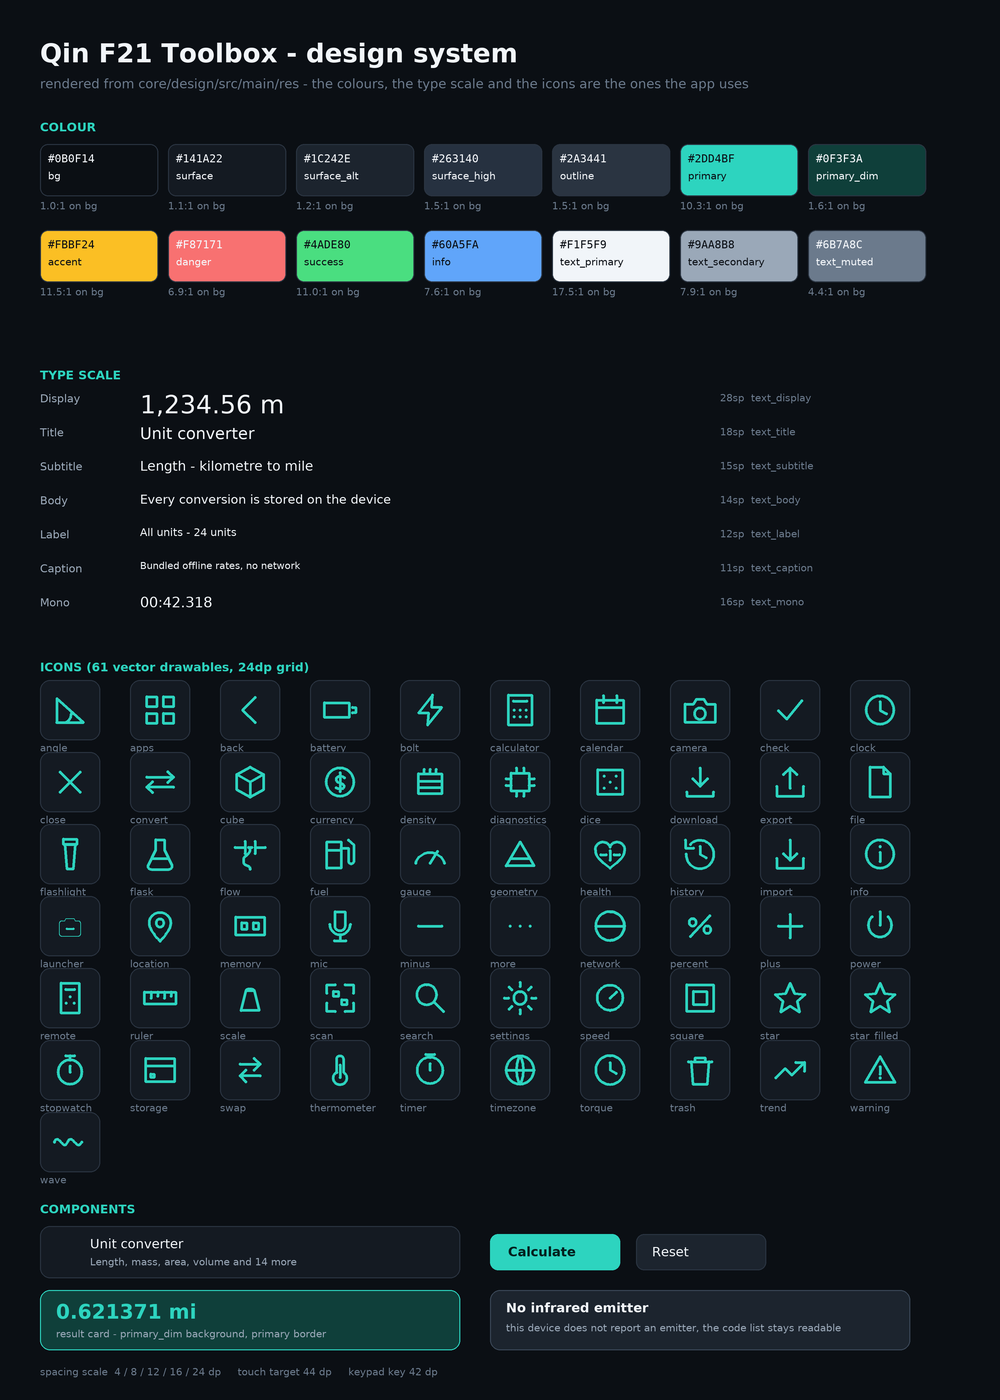
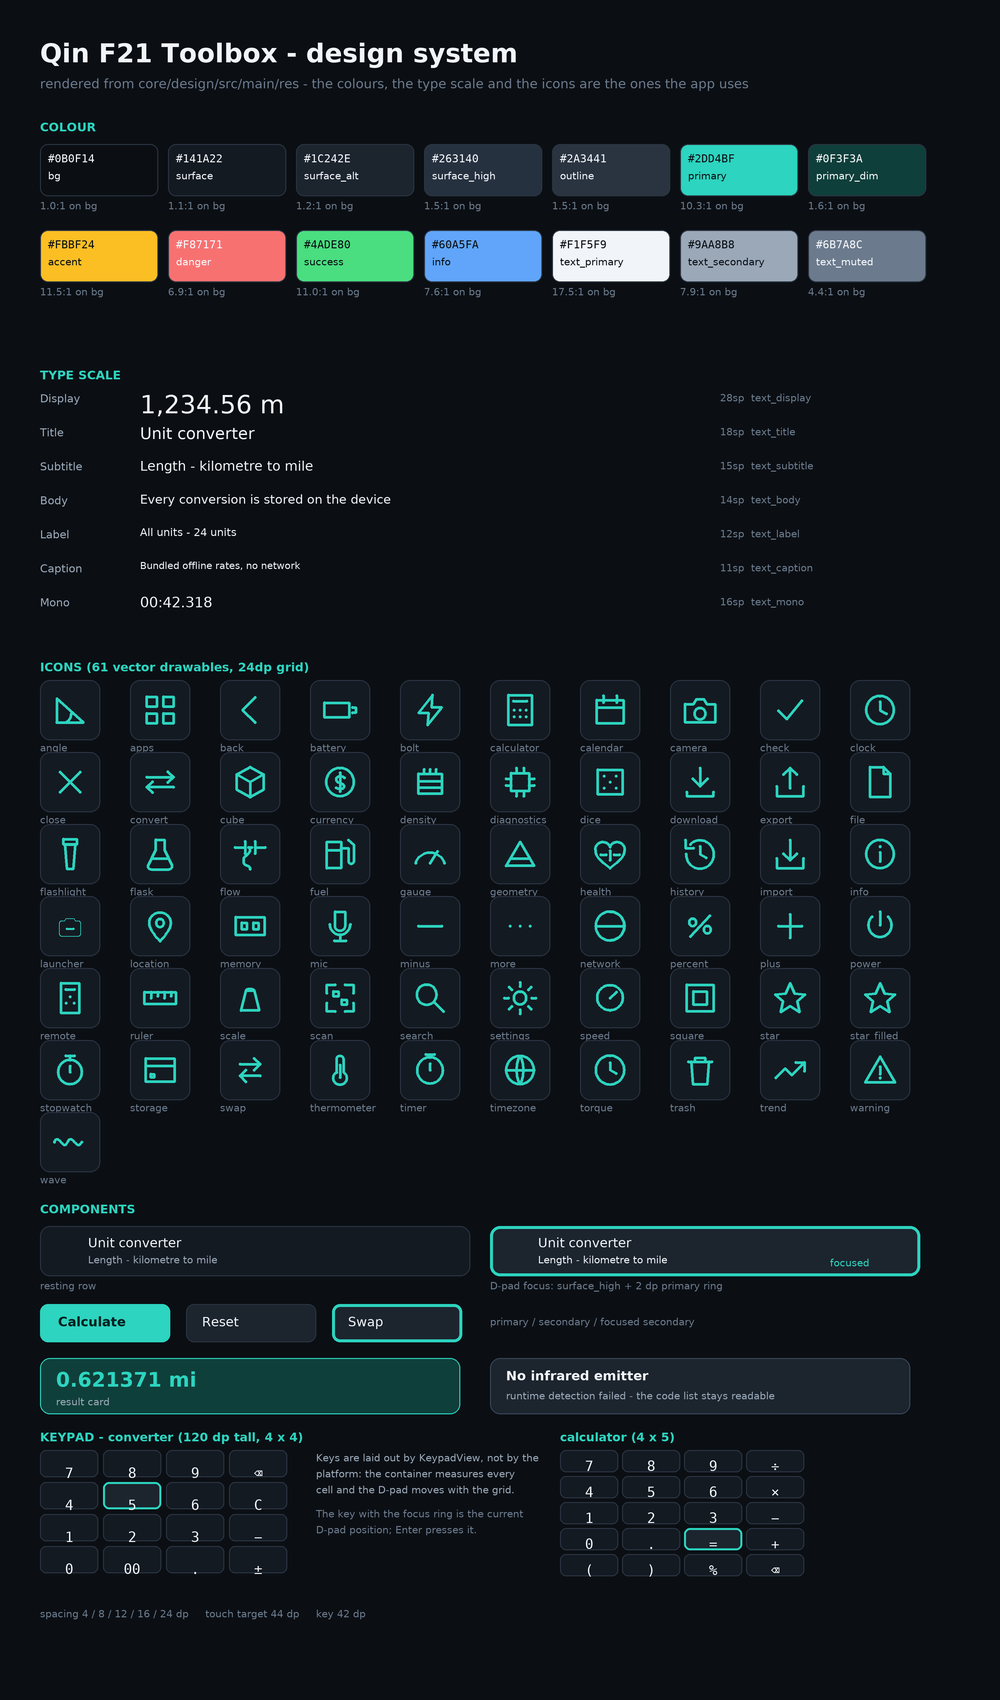
Give the focusable rows a real focus ring and finish the design sheet
Focusable rows were drawn with a static GradientDrawable, which looks the same in
every state, so a keypad user got no feedback about where the D-pad was. The
rows now use a state list (surface_high plus a 2 dp primary ring when focused or
pressed), built by the new Widgets.focusBackground() helper. The design sheet now
also shows the focused row, the focused button and the real keypad grids.

diff --git a/app/src/main/kotlin/com/qin/f21/toolbox/ui/Screen.kt b/app/src/main/kotlin/com/qin/f21/toolbox/ui/Screen.kt
@@ -5,6 +5,7 @@ import android.content.Context
 import android.graphics.Color
 import android.graphics.Typeface
 import android.graphics.drawable.GradientDrawable
+import android.graphics.drawable.StateListDrawable
 import android.os.Build
 import android.text.InputType
 import android.util.TypedValue
@@ -40,21 +41,6 @@ interface ScreenHost {
  * and the APK small. Each screen owns its own key handling so the physical D-pad and
  * keypad can be supported precisely.
  */
-/**
- * Makes a scroll container reachable with the physical D-pad.
- *
- * A [ScrollView] only responds to the arrow keys while it holds the focus, and its default
- * descendant focusability would let it take the focus before its own children. With
- * [ViewGroup.FOCUS_AFTER_DESCENDANTS] the children keep winning, so this only becomes a
- * focus stop on screens whose content has nothing focusable inside it - the read-only
- * screens such as Diagnostics and About, where the D-pad is otherwise unable to scroll.
- */
-fun ScrollView.forKeypad(): ScrollView {
-    isFocusable = true
-    descendantFocusability = ViewGroup.FOCUS_AFTER_DESCENDANTS
-    return this
-}
-
 abstract class Screen(val host: ScreenHost) {
 
     /** Title shown in the header. */
@@ -196,12 +182,47 @@ object Widgets {
         return typed.data
     }
 
-    fun roundedBackground(context: Context, fill: Int, stroke: Int = 0, radiusDp: Int = 10): GradientDrawable {
+    fun roundedBackground(
+        context: Context,
+        fill: Int,
+        stroke: Int = 0,
+        radiusDp: Int = 10,
+        strokeDp: Int = 1
+    ): GradientDrawable {
         val drawable = GradientDrawable()
         drawable.shape = GradientDrawable.RECTANGLE
         drawable.setColor(fill)
         drawable.cornerRadius = dp(context, radiusDp).toFloat()
-        if (stroke != 0) drawable.setStroke(dp(context, 1), stroke)
+        if (stroke != 0) drawable.setStroke(dp(context, strokeDp), stroke)
+        return drawable
+    }
+
+    /**
+     * Background for a control that can hold the D-pad focus.
+     *
+     * A static [GradientDrawable] looks identical whatever the state of its view, so a
+     * focusable row drawn with one gives a keypad user no feedback at all. This builds a
+     * state list instead: the pressed and focused states get the 2 dp primary ring, the
+     * resting state keeps the surface and the hairline outline.
+     */
+    fun focusBackground(
+        context: Context,
+        fill: Int,
+        stroke: Int,
+        radiusDp: Int = 10
+    ): StateListDrawable {
+        val focusFill = color(context, R.color.surface_high)
+        val ring = color(context, R.color.primary)
+        val drawable = StateListDrawable()
+        drawable.addState(
+            intArrayOf(android.R.attr.state_pressed),
+            roundedBackground(context, focusFill, ring, radiusDp, 2)
+        )
+        drawable.addState(
+            intArrayOf(android.R.attr.state_focused),
+            roundedBackground(context, focusFill, ring, radiusDp, 2)
+        )
+        drawable.addState(intArrayOf(), roundedBackground(context, fill, stroke, radiusDp))
         return drawable
     }
 
@@ -235,4 +256,19 @@ object HardwareKeys {
     const val KEY_ENDCALL = KeyEvent.KEYCODE_ENDCALL
     const val KEY_SOFT_LEFT = KeyEvent.KEYCODE_SOFT_LEFT
     const val KEY_SOFT_RIGHT = KeyEvent.KEYCODE_SOFT_RIGHT
+}
+
+/**
+ * Makes a scroll container reachable with the physical D-pad.
+ *
+ * A [ScrollView] only responds to the arrow keys while it holds the focus, and its default
+ * descendant focusability would let it take the focus before its own children. With
+ * [ViewGroup.FOCUS_AFTER_DESCENDANTS] the children keep winning, so this only becomes a
+ * focus stop on screens whose content has nothing focusable inside it - the read-only
+ * screens such as Diagnostics and About, where the D-pad is otherwise unable to scroll.
+ */
+fun ScrollView.forKeypad(): ScrollView {
+    isFocusable = true
+    descendantFocusability = ViewGroup.FOCUS_AFTER_DESCENDANTS
+    return this
 }

diff --git a/app/src/main/kotlin/com/qin/f21/toolbox/ui/HomeScreen.kt b/app/src/main/kotlin/com/qin/f21/toolbox/ui/HomeScreen.kt
@@ -172,7 +172,7 @@ class HomeScreen(host: ScreenHost) : Screen(host) {
         val tile = LinearLayout(host.activity)
         tile.orientation = LinearLayout.VERTICAL
         tile.gravity = Gravity.CENTER
-        tile.background = Widgets.roundedBackground(
+        tile.background = Widgets.focusBackground(
             host.activity,
             Widgets.color(host.activity, R.color.surface_alt),
             Widgets.color(host.activity, R.color.outline)
@@ -210,7 +210,7 @@ class HomeScreen(host: ScreenHost) : Screen(host) {
             Widgets.dp(host.activity, 10),
             Widgets.dp(host.activity, 8)
         )
-        row.background = Widgets.roundedBackground(
+        row.background = Widgets.focusBackground(
             host.activity,
             Widgets.color(host.activity, R.color.surface),
             Widgets.color(host.activity, R.color.outline)

diff --git a/app/src/main/kotlin/com/qin/f21/toolbox/ui/TimeZoneScreen.kt b/app/src/main/kotlin/com/qin/f21/toolbox/ui/TimeZoneScreen.kt
@@ -204,7 +204,7 @@ class TimeZoneScreen(host: ScreenHost) : Screen(host) {
                 Widgets.dp(context(), 10), Widgets.dp(context(), 6),
                 Widgets.dp(context(), 10), Widgets.dp(context(), 6)
             )
-            row.background = Widgets.roundedBackground(
+            row.background = Widgets.focusBackground(
                 context(), Widgets.color(context(), R.color.surface), Widgets.color(context(), R.color.outline)
             )
             val nameView = Widgets.text(context(), name.replace('_', ' '), R.style.Text_Label)

diff --git a/app/src/main/kotlin/com/qin/f21/toolbox/ui/InfraredScreen.kt b/app/src/main/kotlin/com/qin/f21/toolbox/ui/InfraredScreen.kt
@@ -148,7 +148,7 @@ class InfraredScreen(host: ScreenHost) : Screen(host) {
                     Widgets.dp(context, 12), Widgets.dp(context, 8),
                     Widgets.dp(context, 12), Widgets.dp(context, 8)
                 )
-                row.background = Widgets.roundedBackground(
+                row.background = Widgets.focusBackground(
                     context, Widgets.color(context, R.color.surface), Widgets.color(context, R.color.outline)
                 )
                 row.isFocusable = true

diff --git a/app/src/main/kotlin/com/qin/f21/toolbox/ui/RecorderScreen.kt b/app/src/main/kotlin/com/qin/f21/toolbox/ui/RecorderScreen.kt
@@ -169,7 +169,7 @@ class RecorderScreen(host: ScreenHost) : Screen(host) {
                 Widgets.dp(context, 12), Widgets.dp(context, 8),
                 Widgets.dp(context, 12), Widgets.dp(context, 8)
             )
-            row.background = Widgets.roundedBackground(
+            row.background = Widgets.focusBackground(
                 context, Widgets.color(context, R.color.surface), Widgets.color(context, R.color.outline)
             )
             row.isFocusable = true

diff --git a/app/src/main/kotlin/com/qin/f21/toolbox/ui/FavoritesScreen.kt b/app/src/main/kotlin/com/qin/f21/toolbox/ui/FavoritesScreen.kt
@@ -59,7 +59,7 @@ class FavoritesScreen(host: ScreenHost) : Screen(host) {
                 Widgets.dp(context, 10), Widgets.dp(context, 8),
                 Widgets.dp(context, 10), Widgets.dp(context, 8)
             )
-            row.background = Widgets.roundedBackground(
+            row.background = Widgets.focusBackground(
                 context, Widgets.color(context, R.color.surface), Widgets.color(context, R.color.outline)
             )
             row.isFocusable = true

diff --git a/app/src/main/kotlin/com/qin/f21/toolbox/ui/HistoryScreen.kt b/app/src/main/kotlin/com/qin/f21/toolbox/ui/HistoryScreen.kt
@@ -95,7 +95,7 @@ class HistoryScreen(host: ScreenHost) : Screen(host) {
                 Widgets.dp(context, 10), Widgets.dp(context, 8),
                 Widgets.dp(context, 10), Widgets.dp(context, 8)
             )
-            row.background = Widgets.roundedBackground(
+            row.background = Widgets.focusBackground(
                 context, Widgets.color(context, R.color.surface), Widgets.color(context, R.color.outline)
             )
             row.isFocusable = true

diff --git a/app/src/main/kotlin/com/qin/f21/toolbox/ui/QuickCalculatorScreen.kt b/app/src/main/kotlin/com/qin/f21/toolbox/ui/QuickCalculatorScreen.kt
@@ -449,7 +449,7 @@ class QuickCalculatorScreen(host: ScreenHost) : Screen(host) {
             Widgets.dp(context, 10), Widgets.dp(context, 8),
             Widgets.dp(context, 10), Widgets.dp(context, 8)
         )
-        row.background = Widgets.roundedBackground(
+        row.background = Widgets.focusBackground(
             context, Widgets.color(context, R.color.surface), Widgets.color(context, R.color.outline)
         )
         row.isFocusable = true

diff --git a/app/src/main/kotlin/com/qin/f21/toolbox/ui/DateCalculatorScreen.kt b/app/src/main/kotlin/com/qin/f21/toolbox/ui/DateCalculatorScreen.kt
@@ -107,7 +107,7 @@ class DateCalculatorScreen(host: ScreenHost) : Screen(host) {
             Widgets.dp(context, 12), Widgets.dp(context, 8),
             Widgets.dp(context, 12), Widgets.dp(context, 8)
         )
-        row.background = Widgets.roundedBackground(
+        row.background = Widgets.focusBackground(
             context, Widgets.color(context, R.color.surface), Widgets.color(context, R.color.outline)
         )
         row.isFocusable = true

diff --git a/app/src/main/kotlin/com/qin/f21/toolbox/ui/GeometryScreen.kt b/app/src/main/kotlin/com/qin/f21/toolbox/ui/GeometryScreen.kt
@@ -185,7 +185,7 @@ class GeometryScreen(host: ScreenHost) : Screen(host) {
             Widgets.dp(context, 10), Widgets.dp(context, 8),
             Widgets.dp(context, 10), Widgets.dp(context, 8)
         )
-        row.background = Widgets.roundedBackground(
+        row.background = Widgets.focusBackground(
             context, Widgets.color(context, R.color.surface), Widgets.color(context, R.color.outline)
         )
         row.isFocusable = true

diff --git a/app/src/main/kotlin/com/qin/f21/toolbox/ui/SettingsScreen.kt b/app/src/main/kotlin/com/qin/f21/toolbox/ui/SettingsScreen.kt
@@ -200,7 +200,7 @@ class SettingsScreen(host: ScreenHost) : Screen(host) {
             Widgets.dp(context, 10), Widgets.dp(context, 8),
             Widgets.dp(context, 10), Widgets.dp(context, 8)
         )
-        row.background = Widgets.roundedBackground(
+        row.background = Widgets.focusBackground(
             context, Widgets.color(context, R.color.surface), Widgets.color(context, R.color.outline)
         )
         row.isFocusable = true

diff --git a/tools/render_design_sheet.py b/tools/render_design_sheet.py
@@ -345,7 +345,7 @@ def main():
     text_secondary = colors.get("text_secondary", (154, 168, 184))
     text_muted = colors.get("text_muted", (107, 122, 140))
 
-    width, height = 1000, 1400
+    width, height = 1000, 1700
     image = Image.new("RGB", (width * SCALE, height * SCALE), bg)
     draw = ImageDraw.Draw(image)
 
@@ -442,34 +442,91 @@ def main():
     # ---- components ---------------------------------------------------------
     draw.text((s(40), y), "COMPONENTS", font=section_font, fill=primary)
     y += s(24)
-    # a list row
-    row_y = y
-    draw.rounded_rectangle([s(40), row_y, s(460), row_y + s(52)], radius=s(10), fill=surface, outline=outline, width=s(1))
-    viewport, strokes, fills = load_vector(os.path.join(DESIGN, "drawable/ic_convert.xml"))
-    render_icon(draw, [p for p, w in strokes], (s(56), row_y + s(14)), s(24), viewport, primary, 1.7)
-    draw.text((s(90), row_y + s(10)), "Unit converter", font=font(13 * SCALE), fill=text_primary)
-    draw.text((s(90), row_y + s(30)), "Length, mass, area, volume and 14 more", font=small_font, fill=text_secondary)
-    # a primary button
-    draw.rounded_rectangle([s(490), row_y + s(8), s(620), row_y + s(44)], radius=s(8), fill=primary)
-    draw.text((s(508), row_y + s(18)), "Calculate", font=font(13 * SCALE, bold=True), fill=colors["on_primary"])
-    # a secondary button
-    draw.rounded_rectangle([s(636), row_y + s(8), s(766), row_y + s(44)], radius=s(8), fill=surface_alt, outline=outline, width=s(1))
-    draw.text((s(652), row_y + s(18)), "Reset", font=font(13 * SCALE), fill=text_primary)
-    # a result card
-    draw.rounded_rectangle([s(40), row_y + s(64), s(460), row_y + s(124)], radius=s(10),
-                           fill=colors["primary_dim"], outline=primary, width=s(1))
-    draw.text((s(56), row_y + s(74)), "0.621371 mi", font=font(20 * SCALE, bold=True), fill=primary)
-    draw.text((s(56), row_y + s(102)), "result card - primary_dim background, primary border",
-              font=small_font, fill=text_secondary)
-    # an unavailable card
-    draw.rounded_rectangle([s(490), row_y + s(64), s(910), row_y + s(124)], radius=s(10),
-                           fill=surface_alt, outline=colors["outline_strong"], width=s(1))
-    draw.text((s(506), row_y + s(74)), "No infrared emitter", font=font(13 * SCALE, bold=True), fill=text_primary)
-    draw.text((s(506), row_y + s(96)), "this device does not report an emitter, the code list stays readable",
-              font=small_font, fill=text_secondary)
-    y = row_y + s(140)
 
-    draw.text((s(40), y), "spacing scale  4 / 8 / 12 / 16 / 24 dp     touch target 44 dp     keypad key 42 dp",
+    def row_card(x0, y0, title, subtitle, focused):
+        fill = surface_alt if focused else surface
+        draw.rounded_rectangle(
+            [x0, y0, x0 + s(430), y0 + s(50)], radius=s(10), fill=fill,
+            outline=primary if focused else outline, width=s(3 if focused else 1))
+        viewport, strokes, fills = load_vector(os.path.join(DESIGN, "drawable/ic_convert.xml"))
+        render_icon(draw, [p for p, w in strokes], (x0 + s(12), y0 + s(13)), s(24), viewport,
+                    primary, 1.7)
+        draw.text((x0 + s(48), y0 + s(9)), title, font=font(13 * SCALE), fill=text_primary)
+        draw.text((x0 + s(48), y0 + s(28)), subtitle, font=small_font,
+                  fill=text_secondary if not focused else text_primary)
+        if focused:
+            draw.text((x0 + s(340), y0 + s(31)), "focused", font=small_font, fill=primary)
+
+    row_card(s(40), y, "Unit converter", "Length - kilometre to mile", False)
+    row_card(s(490), y, "Unit converter", "Length - kilometre to mile", True)
+    draw.text((s(40), y + s(54)), "resting row", font=small_font, fill=text_muted)
+    draw.text((s(490), y + s(54)), "D-pad focus: surface_high + 2 dp primary ring", font=small_font, fill=text_muted)
+    y += s(78)
+
+    # buttons
+    draw.rounded_rectangle([s(40), y, s(170), y + s(38)], radius=s(8), fill=primary)
+    draw.text((s(58), y + s(10)), "Calculate", font=font(13 * SCALE, bold=True), fill=colors["on_primary"])
+    draw.rounded_rectangle([s(186), y, s(316), y + s(38)], radius=s(8), fill=surface_alt,
+                           outline=outline, width=s(1))
+    draw.text((s(202), y + s(10)), "Reset", font=font(13 * SCALE), fill=text_primary)
+    # focused secondary button
+    draw.rounded_rectangle([s(332), y, s(462), y + s(38)], radius=s(8), fill=surface_alt,
+                           outline=primary, width=s(3))
+    draw.text((s(348), y + s(10)), "Swap", font=font(13 * SCALE), fill=text_primary)
+    draw.text((s(490), y + s(12)), "primary / secondary / focused secondary", font=small_font, fill=text_muted)
+    y += s(54)
+
+    # result and unavailable cards
+    draw.rounded_rectangle([s(40), y, s(460), y + s(56)], radius=s(10),
+                           fill=colors["primary_dim"], outline=primary, width=s(1))
+    draw.text((s(56), y + s(10)), "0.621371 mi", font=font(20 * SCALE, bold=True), fill=primary)
+    draw.text((s(56), y + s(38)), "result card", font=small_font, fill=text_secondary)
+    draw.rounded_rectangle([s(490), y, s(910), y + s(56)], radius=s(10),
+                           fill=surface_alt, outline=colors["outline_strong"], width=s(1))
+    draw.text((s(506), y + s(10)), "No infrared emitter", font=font(13 * SCALE, bold=True), fill=text_primary)
+    draw.text((s(506), y + s(32)), "runtime detection failed - the code list stays readable",
+              font=small_font, fill=text_secondary)
+    y += s(72)
+
+    # keypad - the exact grids the app builds, 4 columns, keys measured by the view
+    draw.text((s(40), y), "KEYPAD - converter (120 dp tall, 4 x 4)", font=section_font, fill=primary)
+    draw.text((s(560), y), "calculator (4 x 5)", font=section_font, fill=primary)
+    y += s(20)
+    converter_keys = [["7", "8", "9", "\u232b"], ["4", "5", "6", "C"],
+                      ["1", "2", "3", "\u2212"], ["0", "00", ".", "\u00b1"]]
+    calculator_keys = [["7", "8", "9", "\u00f7"], ["4", "5", "6", "\u00d7"],
+                       ["1", "2", "3", "\u2212"], ["0", ".", "=", "+"],
+                       ["(", ")", "%", "\u232b"]]
+
+    def keypad(x0, y0, grid, focused_key, key_w, key_h, gap):
+        for row_i, row in enumerate(grid):
+            for column, label in enumerate(row):
+                kx = x0 + column * (key_w + gap)
+                ky = y0 + row_i * (key_h + gap)
+                focused = label == focused_key
+                draw.rounded_rectangle(
+                    [kx, ky, kx + key_w, ky + key_h], radius=s(6),
+                    fill=surface_alt if focused else surface,
+                    outline=primary if focused else outline,
+                    width=s(2 if focused else 1))
+                glyph_font = font(14 * SCALE, mono=True)
+                text_width = draw.textlength(label, font=glyph_font)
+                draw.text((kx + (key_w - text_width) / 2, ky + s((key_h - s(18)) // 2) + s(2)),
+                          label, font=glyph_font, fill=text_primary)
+
+    keypad(s(40), y, converter_keys, "5", s(58), s(27), s(5))
+    keypad(s(560), y, calculator_keys, "=", s(58), s(22), s(4))
+
+    note_x = s(316)
+    draw.text((note_x, y + s(2)), "Keys are laid out by KeypadView, not by the", font=small_font, fill=text_secondary)
+    draw.text((note_x, y + s(18)), "platform: the container measures every", font=small_font, fill=text_secondary)
+    draw.text((note_x, y + s(34)), "cell and the D-pad moves with the grid.", font=small_font, fill=text_secondary)
+    draw.text((note_x, y + s(58)), "The key with the focus ring is the current", font=small_font, fill=text_muted)
+    draw.text((note_x, y + s(74)), "D-pad position; Enter presses it.", font=small_font, fill=text_muted)
+
+    y += 5 * (s(22) + s(4)) + s(28)
+
+    draw.text((s(40), y), "spacing 4 / 8 / 12 / 16 / 24 dp     touch target 44 dp     key 42 dp",
               font=small_font, fill=text_muted)
 
     image = image.resize((int(width), int(height)), Image.LANCZOS)
